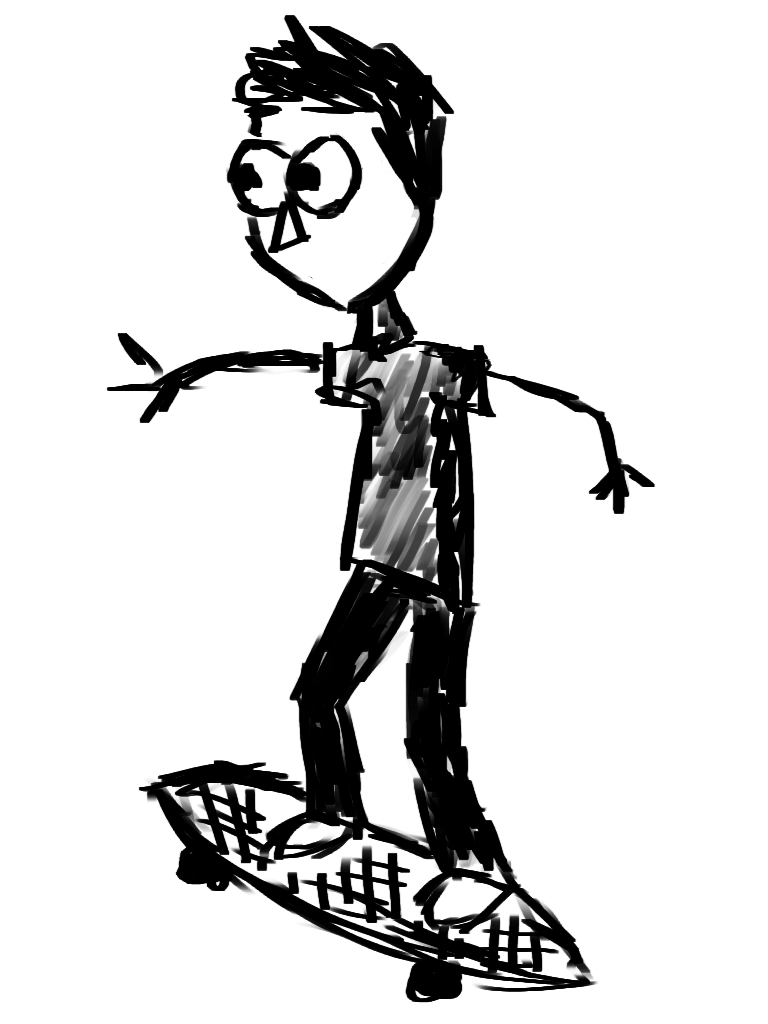
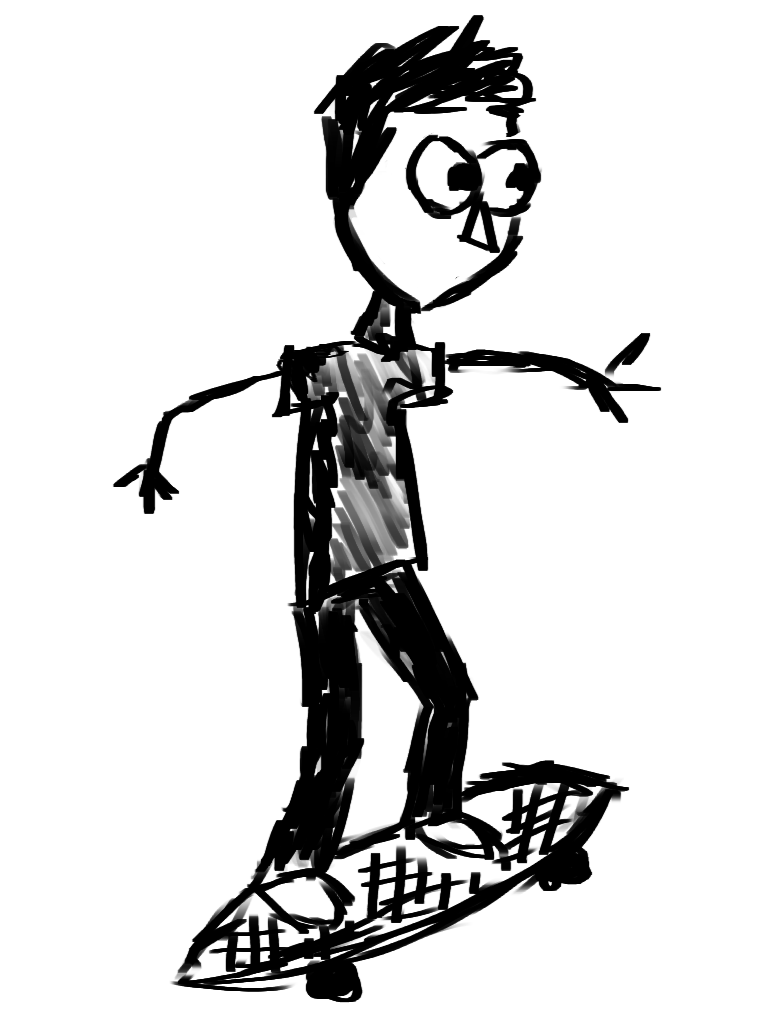
flipped background and skater

Changed region(s): [[0.1562, 0.0, 0.8438, 1.0]]

diff --git a/public/javascript/animate.js b/public/javascript/animate.js
@@ -15,9 +15,9 @@ var yPos; //skater y coordinate
 var scale = obj.height; //scale of skater
 var orig_scale = obj.height; //save original scale of skater
 
-obj.style.position = "fixed"; //set positioning of skater
+//obj.style.position = "fixed"; //set positioning of skater
 
-var loop = setInterval(playAnimation, 10);
+var loop = setInterval(playAnimation, 13);
 
 
 function playAnimation()
@@ -26,7 +26,7 @@ function playAnimation()
   if(xPos <= -100 || xPos == null)
   {
     resetMovement();
-    //resetSize();
+    resetSize();
   }
   else
   {
@@ -47,10 +47,11 @@ function handleMovement()
   else
   {
     xPos--;
+    handleSize();
   }
 
 
-  obj.style.left = xPos + 'px';
+  obj.style.right = xPos + 'px';
   obj.style.bottom = yPos + 'px';
 }
 
@@ -67,12 +68,13 @@ function resetMovement()
   xPos = (width / 2);
   yPos = -200;
 
-  obj.style.left = xPos + 'px';
+  obj.style.right = xPos + 'px';
   obj.style.bottom = yPos + 'px';
 
 }
 
 function resetSize()
 {
+  scale = orig_scale;
   obj.height = orig_scale;
 }

diff --git a/index.html b/index.html
@@ -7,18 +7,19 @@
 <body>
 
 
-
-
-		<div class="title"><p>hi, i'm evan.<br>i make things.</p></div>
+		<img src="images/skatingTest1.png" id="skater" height="350px">
 		<div class="bg"></div>
+
+		<div class="title"><p>hi, i'm evan<br>i make things</p></div>
+
+
 		<div class="buttons">
 			<button id="modalBtn1" class="button1">blog</button>
-			<button id="modalBtn2" class="button2">resume</button><br>
+			<button id="modalBtn2" class="button2">resume</button>
 			<button id="modalBtn3" class="button3">about</button>
 			<button id="modalBtn4" class="button4">contact</button>
 		</div>
 
-		<img src="images/skatingTest1.png" id="skater" height="350px">
 
 		<!-- Blog Modal -->
 
@@ -68,7 +69,6 @@
 					<div class="resume-art">
 						<div class="resume-art-header">projects</div>
 						<div class="resume-art-body">
-							<div id="img"><img src="images/ACTIVEscout1p1.gif"></div>
 						</div>
 					</div>
 

diff --git a/public/scss/style.css b/public/scss/style.css
@@ -334,12 +334,17 @@ body {
   background-size: cover;
   padding-bottom: 200px; }
   body #skater {
-    align: center; }
+    align: center;
+    position: absolute;
+    z-index: 4; }
   body .bg {
-    z-index: 99;
+    z-index: 5;
     background-image: url("IMG_0330level2.jpg");
+    background-color: black;
+    background-color: red;
     top: 0px;
-    background-position: center;
+    background-position: absolute;
+    background-attachment: fixed;
     background-repeat: no-repeat;
     background-size: cover; }
   body .title {

diff --git a/public/scss/style.scss b/public/scss/style.scss
@@ -10,18 +10,25 @@ body
 	#skater
 	{
 		align: center;
+		position: absolute;
+		z-index: 4;
 	}
 
 	.bg
 	{
-		z-index:99;
+		z-index:5;
 		background-image: url("IMG_0330level2.jpg");
+		background-color: rgba(0,0,0,1);
+
+		background-color: red;
 		top: 0px;
 
-		background-position: center;
+		background-position: absolute;
+		background-attachment: fixed;
 		background-repeat: no-repeat;
 		background-size: cover;
 	}
+
 	z-index: 1;
 	background-color: rgba(0,0,0,0.5);
 	top: 0px;
